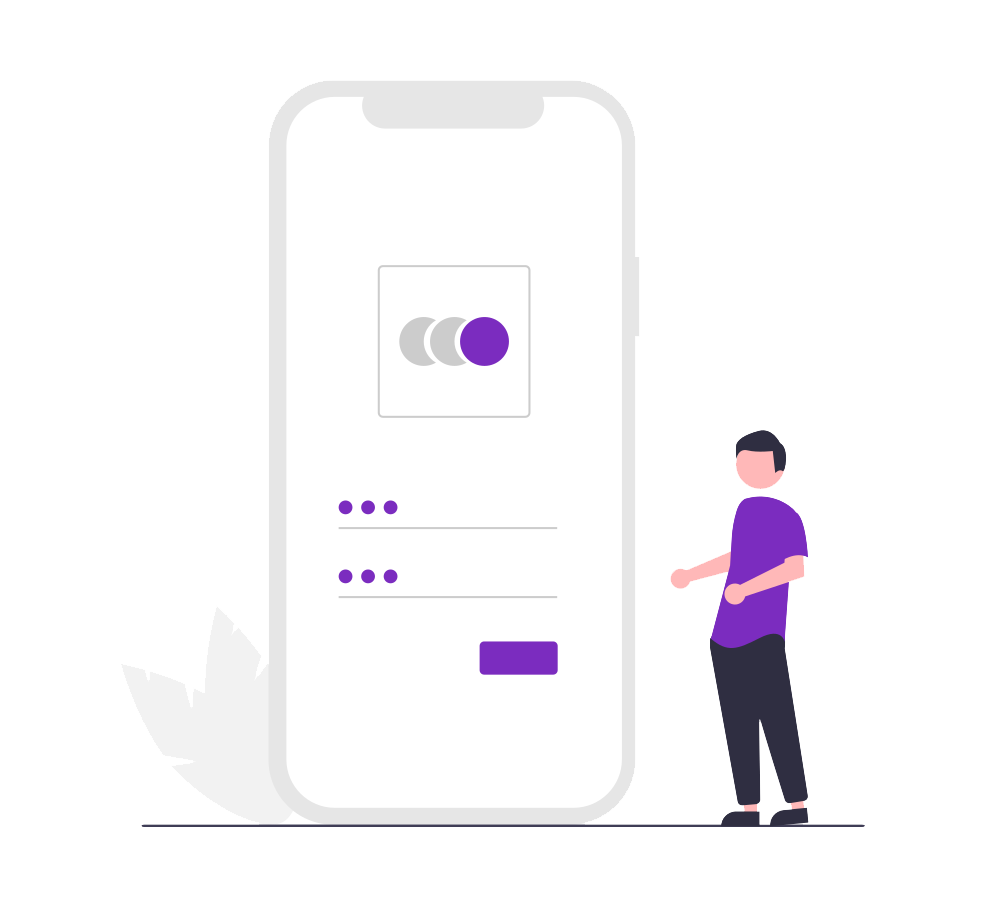
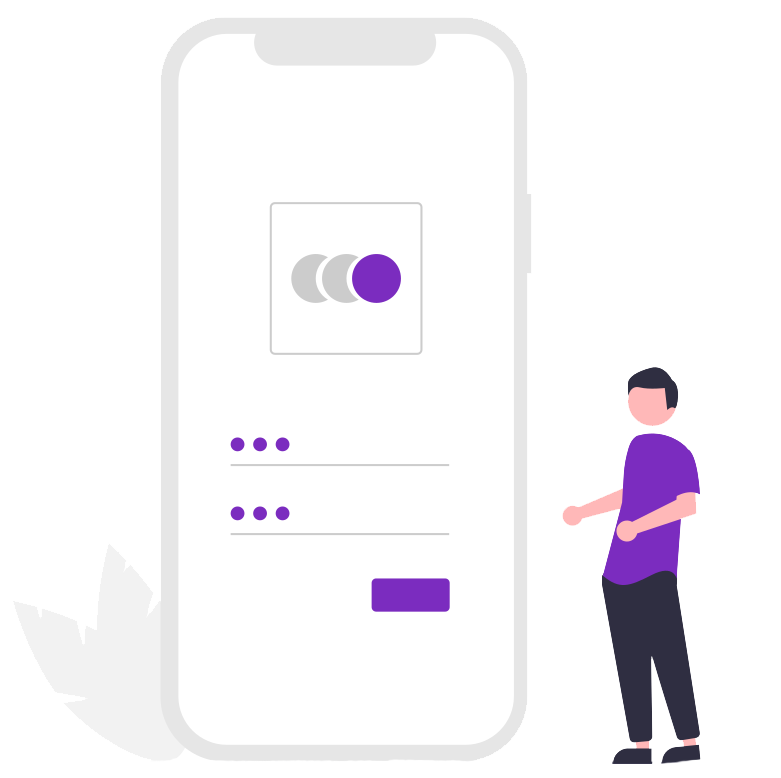
Cambiando la img de login y agregando un setTimeout para cuando se loguean

Changed region(s): [[0.1536, 0.0, 0.9219, 0.9871], [0.338, 0.2468, 0.5531, 0.4627], [0.4609, 0.6787, 0.5839, 0.8021]]

diff --git a/pages/login.html b/pages/login.html
@@ -20,71 +20,69 @@
   </head>
   <body>
     <main>
-      <section class="container my-4">
+      <section class="contenedor container my-4">
         <div class="row justify-content-center">
-          <div
-            class="col-11 col-lg-6 d-flex align-items-center bg-white border border-2"
-          >
+          <div class="col-11 col-md-6 bg-white">
             <img
               src="../img/img-login.png"
-              alt="persona y un celular"
-              class="img-fluid mx-auto img-login"
+              alt="una persona y un celular"
+              class="img-fluid mx-auto d-block img-login"
             />
           </div>
-
-          <div class="col-11 col-lg-6 bg-white border border-2">
-            <h2 class="text-center mt-3">Inicia sesión</h2>
-            <form id="login" class="my-5">
+          <div class="col-11 col-md-6 bg-white">
+            <h2 class="text-center my-3">Inicia sesión</h2>
+            <form id="login">
               <div class="mb-3">
-                <label class="form-label fw-bold" for="userEmail">
+                <label class="form-label" for="userEmail">
                   <i class="fa-solid fa-envelope"></i>
-                  Correo electronico
+                  <b>Correo electronico</b>
                 </label>
                 <input
                   type="email"
                   class="form-control"
                   id="userEmail"
                   name="userEmail"
-                  placeholder="ejemplo@dominio.com"
-                  minlength="10"
-                  maxlength="60"
                   required
                 />
               </div>
               <div class="mb-3">
-                <label class="form-label fw-bold" for="userPassword">
+                <label class="form-label" for="userPassword">
                   <i class="fa-solid fa-key"></i>
-                  Contraseña
+                  <b>Contraseña</b>
                 </label>
                 <input
                   type="password"
                   class="form-control"
                   id="userPassword"
                   name="userPassword"
-                  minlength="6"
-                  maxlength="50"
                   required
                 />
               </div>
-              <a href="#">¿Olvidaste tu contraseña?</a>
               <div class="alert alert-danger d-none" id="alertError">
                 <i class="fa-solid fa-triangle-exclamation"></i>
-                Correo o contraseña incorrectos.
+                Correo o contraseña incorrectos
               </div>
-              <div class="d-grid col-6 my-3 mx-auto">
-                <button type="submit" class="btn btn-login rounded-5 fw-bold">
-                  Inicia sesión
+              <a href="#"> ¿Olvidate tu contraseña? </a>
+              <div class="d-grid col-6 mx-auto my-3">
+                <button
+                  type="submit"
+                  id="loginBtn"
+                  class="btn btn-login rounded-5"
+                >
+                  <b>Inicia sesión</b>
                 </button>
               </div>
               <p class="text-center">
-                ¿Aún no tienes una cuenta? <a href="#">Regístrate</a>
+                ¿Aún no tienes cuenta? <a href="#">Registrarse</a>
               </p>
             </form>
           </div>
         </div>
       </section>
     </main>
-    <footer></footer>
+    <footer class="bg-white">
+      <h2 class="text-center">footer</h2>
+    </footer>
     <script
       src="https://cdn.jsdelivr.net/npm/bootstrap@5.3.0-alpha3/dist/js/bootstrap.bundle.min.js"
       integrity="sha384-ENjdO4Dr2bkBIFxQpeoTz1HIcje39Wm4jDKdf19U8gI4ddQ3GYNS7NTKfAdVQSZe"
@@ -94,6 +92,6 @@
       src="https://kit.fontawesome.com/e23bd1dc39.js"
       crossorigin="anonymous"
     ></script>
-    <!-- <script src="../js/login.js"></script> -->
+    <script src="../js/login.js"></script>
   </body>
 </html>

diff --git a/js/login.js b/js/login.js
@@ -20,6 +20,7 @@ const usuarios = JSON.parse(localStorage.getItem("usuarios")) || [
 ];
 
 const formLogin = document.querySelector("#login");
+const loginBtn = document.querySelector("#loginBtn");
 const userEmail = document.querySelector("#userEmail");
 const userPassword = document.querySelector("#userPassword");
 const alertError = document.querySelector("#alertError");
@@ -63,12 +64,24 @@ const logueoUser = () => {
   ) {
     alertError.classList.add("d-none");
     let { id, role, nombre, apellido, edad, email } = usuarioEncontrado;
-    console.log({ id, role, nombre, apellido, edad, email });
     localStorage.setItem(
       "userLogueado",
       JSON.stringify({ id, role, nombre, apellido, edad, email })
     );
-    location.replace("../index.html");
+    loginBtn.setAttribute("disabled", "");
+    loginBtn.innerHTML =
+      /* HTML */
+      `
+        <span
+          class="spinner-grow spinner-grow-sm"
+          role="status"
+          aria-hidden="true"
+        ></span>
+        Cargando...
+      `;
+    setTimeout(() => {
+      location.replace("../index.html");
+    }, 1000);
   } else {
     alertError.classList.remove("d-none");
     userPassword.value = "";

diff --git a/css/login.css b/css/login.css
@@ -1,13 +1,23 @@
 @import url("./styles.css");
 
-.img-login {
-  width: 500px;
-  object-fit: contain;
+.contenedor {
+  display: flex;
+  justify-content: center;
+  align-items: center;
+}
+
+.row {
+  filter: drop-shadow(5px 5px 10px #000);
 }
 
 form .btn-login {
   color: #ffff;
   background-color: #7b2cbf;
+}
+
+form .btn-login:disabled {
+  color: #ffff;
+  background-color: #3c096c;
 }
 
 form .btn-login:hover {
@@ -20,8 +30,9 @@ form input:focus {
   box-shadow: 0 0 0 0.2rem #7b2cbf !important;
 }
 
-@media (max-width: 769px) {
+@media (max-width: 426px) {
   .img-login {
     width: 320px;
+    height: 250px;
   }
 }

diff --git a/css/styles.css b/css/styles.css
@@ -16,6 +16,10 @@ body {
   );
 }
 
+a {
+  text-decoration: none;
+}
+
 h1,
 h2,
 a,
